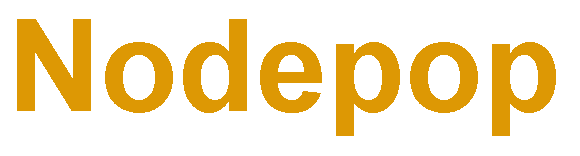
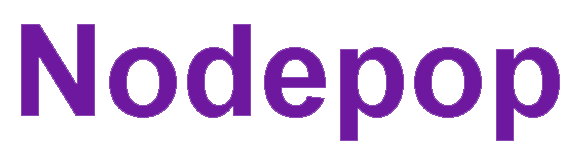
Cambio color titulo Readme

diff --git a/public/stylesheets/style.css b/public/stylesheets/style.css
@@ -9,20 +9,21 @@ a {
 h1 {
   margin:.5rem;
   font-size: 8rem;
-  text-align: center;
-  color:rgb(221, 152, 4)
+  text-align: center;  
+  color: rgb(109, 24, 158);
 }
 h3 {
   margin:.5rem;
   font-size: 3rem;
   text-align: center;
-  color: rgb(230, 252, 32);
+  color:rgb(221, 134, 4);
+  
 }
 h5{ 
   margin:.3rem;
   font-size: 1.5rem;
   text-align: center;  
-  color:rgb(5, 104, 82);   
+  color:rgb(37, 187, 155);   
 }
 .wrapper{
   display:grid;  
@@ -48,11 +49,11 @@ p{
 .add-wrapper p:first-of-type {
   font-size:2rem;
   font-weight: bold;
-  color: rgb(221, 152, 4);
+  color: rgb(109, 24, 158);
   text-align: center;
 }
 .add-wrapper p:nth-last-child(3) {
-   color:rgb(230, 252, 32);
+   color:rgb(221, 134, 4);
 }
 #price{
   font-size: 2rem;
@@ -60,7 +61,7 @@ p{
 }
 .add-wrapper p:last-child {
   font-size:.9rem;
-  color:rgb(5, 104, 82); 
+  color:rgb(37, 187, 155); 
 }
 ul{
   padding: 0;

diff --git a/routes/apiv1/adds.js b/routes/apiv1/adds.js
@@ -12,7 +12,7 @@ const Add = require('../../models/Add');
  * GET /
  * Returns a list of adds
  */
-router.get('/?',[    
+router.get('/',[    
     query('name').optional({checkfalsy:true}).isAlphanumeric().withMessage('debe ser un valor alfanumérico'),
     query('toSell').optional({checkfalsy:true}).isBoolean().withMessage('debe ser un valor booleano'),
     query('tags').optional({checkfalsy:true}).isAlpha().withMessage('debe contener solo letras')            
